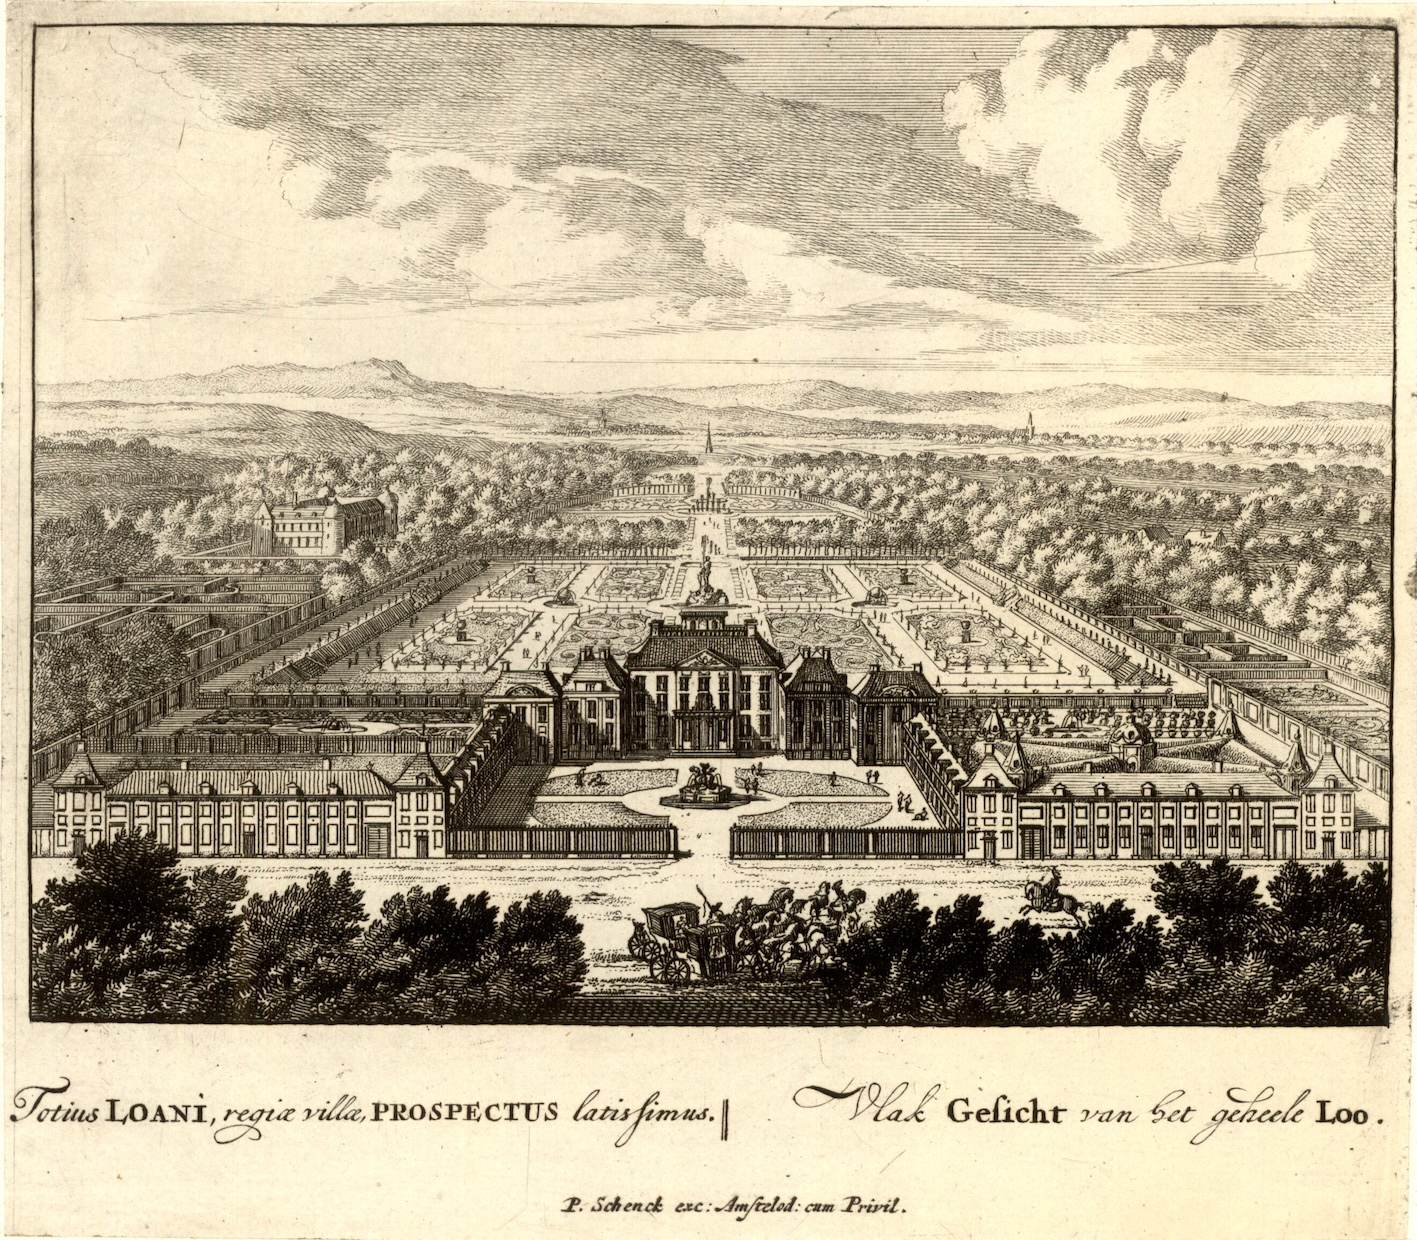
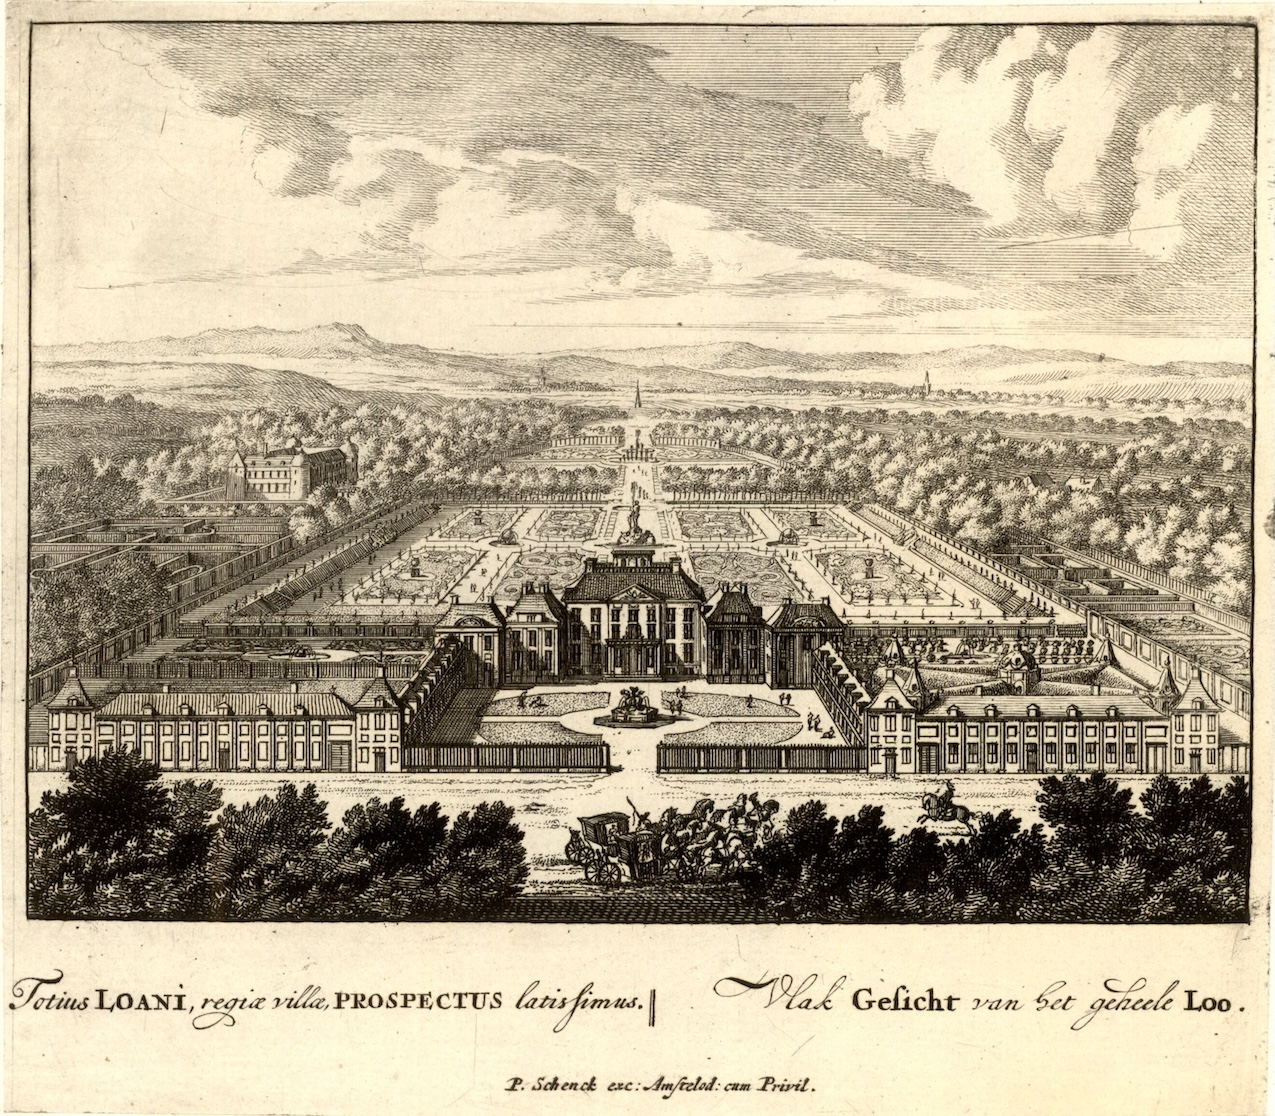
vetsi rozliseni obrazku v other, lazy loading

diff --git a/src/app/other/other.component.html b/src/app/other/other.component.html
@@ -15,14 +15,14 @@
                 </div>
             </div>
             <div class="app-desc-right">
-                <div class="app-desc-img"></div>
+                <a routerLink="../mollova-sbirka/uuid:79a2351f-572d-46cd-b839-0578eedd68a3" class="app-desc-img"></a>
             </div>
         </div>
         <div class="app-collections">
             <div class="app-collection">
-                <div class="app-col-img">
-                    <img src="assets/images/other-2.png" alt="Schramova sbirka" />
-                </div>
+                <a href="https://grafiky.mzk.cz/record/uuid:498e0e22-407d-49e3-bd1a-7653a2c63ced" target="_blank" class="app-col-img">
+                    <img src="assets/images/uuid-498e0e22-407d-49e3-bd1a-7653a2c63ced.jpg" alt="Schramova sbirka" />
+                </a>
                 <div class="app-col-desc" *ngIf="currentLang === 'cs'">
                     <h2 class="app-title">Schramova sbírka</h2>
                     <div class="app-text">
@@ -43,12 +43,12 @@
                         <p>The beginnings of the Schram Collection date back to the second half of the 19th century. Originally randomly obtained graphics of the Francis Museum (now Moravské zemské muzeum) were, thanks to museum curator Moritz Trapp and later librarian Wilhelm Schram, assembled in the museum library and divided into two thematic units. The first focused on vedute of Brno and later on extended to the whole of Moravia. The collection's founders intended to gather visual documentation for each Moravian town. In the inter-war period the set was extended by Bedřich Václavek with more recent documentation. The second part consists of portraits (mainly lithographies) of personalities from the social and political life of Moravia, and partially also Vienna. The entire Schram Collection has been registered into the electronic catalogue and digitised.</p>
                         <p>The collection may be accessed using the shelfmark index of the historical resources catalogue (Schram Collection of Vedute – shelfmarks beginning with "Skř.1-0091.416; Schram Collection of Portraits - shelfmarks beginning with " Skř.2J "," Skř.2K "and" Skř.2L").</p>
                     </div>
-                </div>         
+                </div>
             </div>
             <div class="app-collection">
-                <div class="app-col-img">
-                    <img src="assets/images/other-3.png" alt="Sbirka starych grafik" />
-                </div>
+                <a href="https://grafiky.mzk.cz/record/uuid:26c86351-1ee7-4ecb-889e-850ee7e59c38" target="_blank" class="app-col-img">
+                    <img src="assets/images/uuid-26c86351-1ee7-4ecb-889e-850ee7e59c38.jpg" alt="Sbirka starych grafik" />
+                </a>
                 <div class="app-col-desc" *ngIf="currentLang === 'cs'">
                     <h2 class="app-title">Sbírka starých grafik</h2>
                     <div class="app-text">
@@ -62,19 +62,19 @@
                         <p>Apart from the coherent Schram Collection, the MZK owns a collection containing many other graphics and photographs, extended until today with documents created before 1920. This heterogeneous collection also contains a range of so-called "Moravicum", e.g. a large set of photos of Brno called "<a href="https://vufind.mzk.cz/Record/mzk.MZK03-001077035" target="_blank">Bruna antiqua</a>".</p>
                         <p>It may be searched in using the shelfmark index of the catalogue of historical stocks (shelfmarks beginning with 'Skř', except those listed in the Schram Collection index). A substantial part of the collection has recently been digitised as part of the <a href="https://pro.europeana.eu/project/europeanatravel" target="_blank">Europeana Travel</a> project.</p>
                     </div>
-                </div> 
+                </div>
                 <div class="app-col-desc" *ngIf="currentLang === 'de'">
                     <h2 class="app-title">Die Sammlung Altgrafiken</h2>
                     <div class="app-text">
                         <p>Neben der Sammlung Schram, die inhaltlich ein Ganzes bildet und in der sich bis heute Dokumente befinden, die vor 1920 entstanden, besitzt die MZK eine Reihe weiterer Grafiken und Fotografien. Diese heterogene Kollektion beinhaltet auch eine Reihe von mährischen Realien, z.B. das umfangreiche Album "<a href="https://vufind.mzk.cz/Record/mzk.MZK03-001077035" target="_blank">Bruna antiqua</a>." mit Fotografien von Brünn.</p>
                         <p>Die Recherche ist über den Signaturen-Index im Katalog der historischen Bestände möglich (die Signaturen beginnen mit "Skř" außer jenen, die in der Sammlung Schram angeführt sind). Ein Großteil der Sammlung wurde in den letzten Jahren im Rahmen des Projekts <a href="https://pro.europeana.eu/project/europeanatravel" target="_blank">Europeana Travel</a> digitalisiert.</p>
                     </div>
-                </div>       
+                </div>
             </div>
             <div class="app-collection">
-                <div class="app-col-img">
-                    <img src="assets/images/other-4.png" alt="Sbirka starych map" />
-                </div>
+                <a href="https://www.digitalniknihovna.cz/mzk/uuid/uuid:56a15b66-a430-4e05-8f45-93d54ff366a2" target="_blank" class="app-col-img">
+                    <img src="assets/images/uuid-56a15b66-a430-4e05-8f45-93d54ff366a2.jpg" alt="Sbirka starych map" />
+                </a>
                 <div class="app-col-desc" *ngIf="currentLang === 'cs'">
                     <h2 class="app-title">Sbírka starých map</h2>
                     <div class="app-text">
@@ -88,19 +88,19 @@
                         <p>This is a collection of antique maps issued before 1850, created primarily by delimitations within the library. The entire collection of antique maps was registered in the electronic library catalogue and to a greater extent has also been digitized.</p>
                         <p>You may search within the collection using the shelfmark index of the catalogue of old prints (shelfmarks beginning with "STMpa"). A substantial part of the collection has recently been digitised as part of the <a href="https://pro.europeana.eu/project/europeanatravel" target="_blank">Europeana Travel</a> project.</p>
                     </div>
-                </div> 
+                </div>
                 <div class="app-col-desc" *ngIf="currentLang === 'de'">
                     <h2 class="app-title">Die Sammlung Altkarten</h2>
                     <div class="app-text">
                         <p>Hier handelt es sich um eine Sammlung von Karten, die vor dem Jahre 1850 herausgegeben wurden. Sie entstand vor allem durch Abgrenzungen innerhalb der Bibliothek. Die gesamte Sammlung Altkarten ist im elektronischen Bibliothekskatalog eingetragen und zum größten Teil digitalisiert.</p>
                         <p>Die Recherche ist über den Signaturen-Index im Katalog der alten Drucke möglich (die Signaturen beginnen mit "STMpa"). Der Großteil der Sammlung wurde in den letzten Jahren im Rahmen des Projektes <a href="https://pro.europeana.eu/project/europeanatravel" target="_blank">Europeana Travel</a> digitalisiert.</p>
                     </div>
-                </div>     
+                </div>
             </div>
             <div class="app-collection">
-                <div class="app-col-img">
-                    <img src="assets/images/other-5.png" alt="Sbirka map 19. a 20. stoleti" />
-                </div>
+                <a href="https://www.digitalniknihovna.cz/mzk/uuid/uuid:5f7c600e-9610-4b4f-ba5e-918d87e8f7c4" target="_blank" class="app-col-img">
+                    <img src="assets/images/uuid-5f7c600e-9610-4b4f-ba5e-918d87e8f7c4.jpg" alt="Sbirka map 19. a 20. stoleti" />
+                </a>
                 <div class="app-col-desc" *ngIf="currentLang === 'cs'">
                     <h2 class="app-title">Sbírka map 19. a 20. století</h2>
                     <div class="app-text">
@@ -112,18 +112,18 @@
                     <div class="app-text">
                         <p>The Collection of Maps from the 19th and 20th centuries is an open stock serving the storage of contemporary map production from the second half of the 19th century onwards. Unfortunately, the collection is largely available only through the original card catalogue. Gradual conversion into an electronic catalogue is under way. Maps are available in digital library <a href="https://www.digitalniknihovna.cz/mzk/search?doctypes=map&from=1800&to=2025" target="_blank">Kramerius</a>.</p>
                     </div>
-                </div> 
+                </div>
                 <div class="app-col-desc" *ngIf="currentLang === 'de'">
                     <h2 class="app-title">Die Kartensammlung 19. und 20. Jahrhundert</h2>
                     <div class="app-text">
                         <p>Die Kartensammlung 19. und 20. Jahrhundert stellt einen lebendigen Bestand dar, in dem die zeitgenössische Kartenproduktion seit der zweiten Hälfte des 19. Jahrhunderts dokumentiert wird. Die Sammlung ist leider zu großen Teilen nur über den ursprünglichen Zettelkatalog zugänglich, an der fortschreitenden Überführung in den elektronischen Katalog wird gearbeitet. Die Karten sind in der digitalen Bibliothek <a href="https://www.digitalniknihovna.cz/mzk/search?doctypes=map&from=1800&to=2025" target="_blank">Kramerius</a> erhalten.</p>
                     </div>
-                </div>     
+                </div>
             </div>
             <div class="app-collection">
-                <div class="app-col-img">
-                    <img src="assets/images/other-6.png" alt="Atlasy" />
-                </div>
+                <a href="https://www.digitalniknihovna.cz/mzk/uuid/uuid:1191f20b-910b-11e0-82d6-0050569d679d" target="_blank" class="app-col-img">
+                    <img src="assets/images/uuid-1191f20b-910b-11e0-82d6-0050569d679d.jpg" alt="Atlasy" />
+                </a>
                 <div class="app-col-desc" *ngIf="currentLang === 'cs'">
                     <h2 class="app-title">Atlasy</h2>
                     <div class="app-text">
@@ -139,7 +139,7 @@
                         <p>The Moravská zemská knihovna owns both, works of cosmography from the 16th century that preceded atlases, as well as a representative set of 18th to 20th century atlas production. These are mostly different editions of atlases from the Homann family workshop, the younger Schraembl's atlas but also, for example, a maritime manuscript atlas, which is among the most beautiful cimelies in the whole of the MZK stock. Unfortunately, we do not have a satisfactory way of evidencing atlas works of the 19th and the first half of the 20th century and have to make do with the old system of catalogue cards for the time being. Some of the atlases have been digitized in recent years as part of the Europeana Travel project.</p>
                         <!-- <p>An overview of atlases that have already been digitised can be found here.</p> -->
                     </div>
-                </div> 
+                </div>
                 <div class="app-col-desc" *ngIf="currentLang === 'de'">
                     <h2 class="app-title">Atlanten</h2>
                     <div class="app-text">
@@ -147,7 +147,7 @@
                         <p>Die Mährische Landesbibliothek besitzt sowohl Kosmografien aus dem 16. Jahrhundert, die den Atlanten vorausgingen, als auch eine repräsentative Sammlung der Atlaskartografie vom 18.-20. Jahrhundert. Es handelt sich dabei vor allem um verschiedene Ausgaben von Atlanten aus der Produktion des Familienbetriebs Homann, später Schrämbl Atlas, aber z.B. auch ein handgezeichneter Portolan-Atlas, der zu den schönsten Zimelien des Gesamtbestandes der MZK gehört. Das Atlaswerk des 19. und der ersten Hälfte des 20. Jahrhunderts ist leider nicht entsprechend erfasst, vorläufig muss man sich mit dem alten Zettelkatalog zufriedengeben. Ein Teil der Atlanten wurden in den letzten Jahren im Rahmen des Projekts Europeana Travel digitalisiert.</p>
                         <!-- <p>Eine Übersicht über die bisher digitalisierten Atlanten finden Sie hier.</p> -->
                     </div>
-                </div>     
+                </div>
             </div>
             <div class="app-collection">
                 <div class="app-col-img">
@@ -164,18 +164,18 @@
                     <div class="app-text">
                         <p>A number of maps were bound as supplements to books. There is a basic system of inventory for such works for old prints published prior to 1800. Thorough processing, however, still awaits and as such searching through these works is not yet possible.</p>
                     </div>
-                </div> 
+                </div>
                 <div class="app-col-desc" *ngIf="currentLang === 'de'">
                     <h2 class="app-title">Kartenbeilagen</h2>
                     <div class="app-text">
                         <p>Eine Reihe von Karten wurde als Beilage in Büchern eingebunden. Alte Drucke, die vor 1800 erschienen, sind grob erfasst, sie warten jedoch noch auf eine gründliche Überarbeitung der Erfassung, daher ist eine Recherche in diesen Dokumenten derzeit nicht möglich.</p>
                     </div>
-                </div>     
+                </div>
             </div>
             <div class="app-collection">
-                <div class="app-col-img">
-                    <img src="assets/images/other-8.jpg" alt="Nastenne mapy" />
-                </div>
+                <a href="https://www.digitalniknihovna.cz/mzk/uuid/uuid:5182ebd5-20ef-41a9-b1b3-7fda92fb0d33" target="_blank" class="app-col-img">
+                    <img src="assets/images/uuid-5182ebd5-20ef-41a9-b1b3-7fda92fb0d33.jpg" alt="Nastenne mapy" />
+                </a>
                 <div class="app-col-desc" *ngIf="currentLang === 'cs'">
                     <h2 class="app-title">Nástěnné mapy</h2>
                     <div class="app-text">
@@ -187,13 +187,13 @@
                     <div class="app-text">
                         <p>In the library stock you may find a small set of wall maps that have been completely registered into the library catalogue. Their shelfmark begins with the letters "MPR"; their listing is therefore easily accessible via the index in the library catalogue.</p>
                     </div>
-                </div> 
+                </div>
                 <div class="app-col-desc" *ngIf="currentLang === 'de'">
                     <h2 class="app-title">Wandkarten</h2>
                     <div class="app-text">
                         <p>Im Bestand befindet sich eine nicht besonders große Sammlung von Wandkarten, die bereits komplett in den Bibliothekskatalog eingetragen wurden. Ihre Signaturen beginnen mit den Buchstaben "Mpr"; die Liste ist also einfach über den Index im Bibliothekskatalog aufzurufen.</p>
                     </div>
-                </div>     
+                </div>
             </div>
         </div>
     </div>

diff --git a/src/app/collections/content/collection/collection.component.html b/src/app/collections/content/collection/collection.component.html
@@ -11,7 +11,7 @@
                     <div class="app-card-item" *ngIf="item['model'] !== 'manuscript'">
                         <a class="app-card-image" [routerLink]="['/mollova-sbirka', item.pid]">
                             <div class="app-card-overlay"></div>
-                            <img [src]="getChildrenImage(item)" alt="Image" />
+                            <img [src]="getChildrenImage(item)" loading="lazy" alt="Image" />
                         </a>
                         <div class="app-card-content">
                             <a class="app-card-title-container" [routerLink]="['/mollova-sbirka', item.pid]">

diff --git a/src/app/other/other.component.scss b/src/app/other/other.component.scss
@@ -64,14 +64,14 @@
                 .app-col-img {
                     display: flex;
                     width: 300px;
-                    height: 300px;
+                    max-height: 500px;
                     padding-top: 8px;
                     justify-content: flex-end;
                     align-items: flex-start;
                     gap: 10px;
                     img {
                         width: 300px;
-                        height: 211px;
+                        // height: 211px;
                         // flex-shrink: 0;
                     }
                 }

diff --git a/src/app/collections/content/map/map.component.html b/src/app/collections/content/map/map.component.html
@@ -48,7 +48,7 @@
           <div class="app-card" *ngIf="item['model'] !== 'manuscript'">
             <a class="app-card-image" [routerLink]="['/mollova-sbirka', item.pid]" >
               <div class="app-card-overlay"></div>
-              <img [src]="getChildrenImage(item)" alt="Image" />
+              <img [src]="getChildrenImage(item)" loading="lazy" alt="Image" />
             </a>
             <div class="app-card-content">
               <a class="app-card-title-container" [routerLink]="['/mollova-sbirka', item.pid]">
